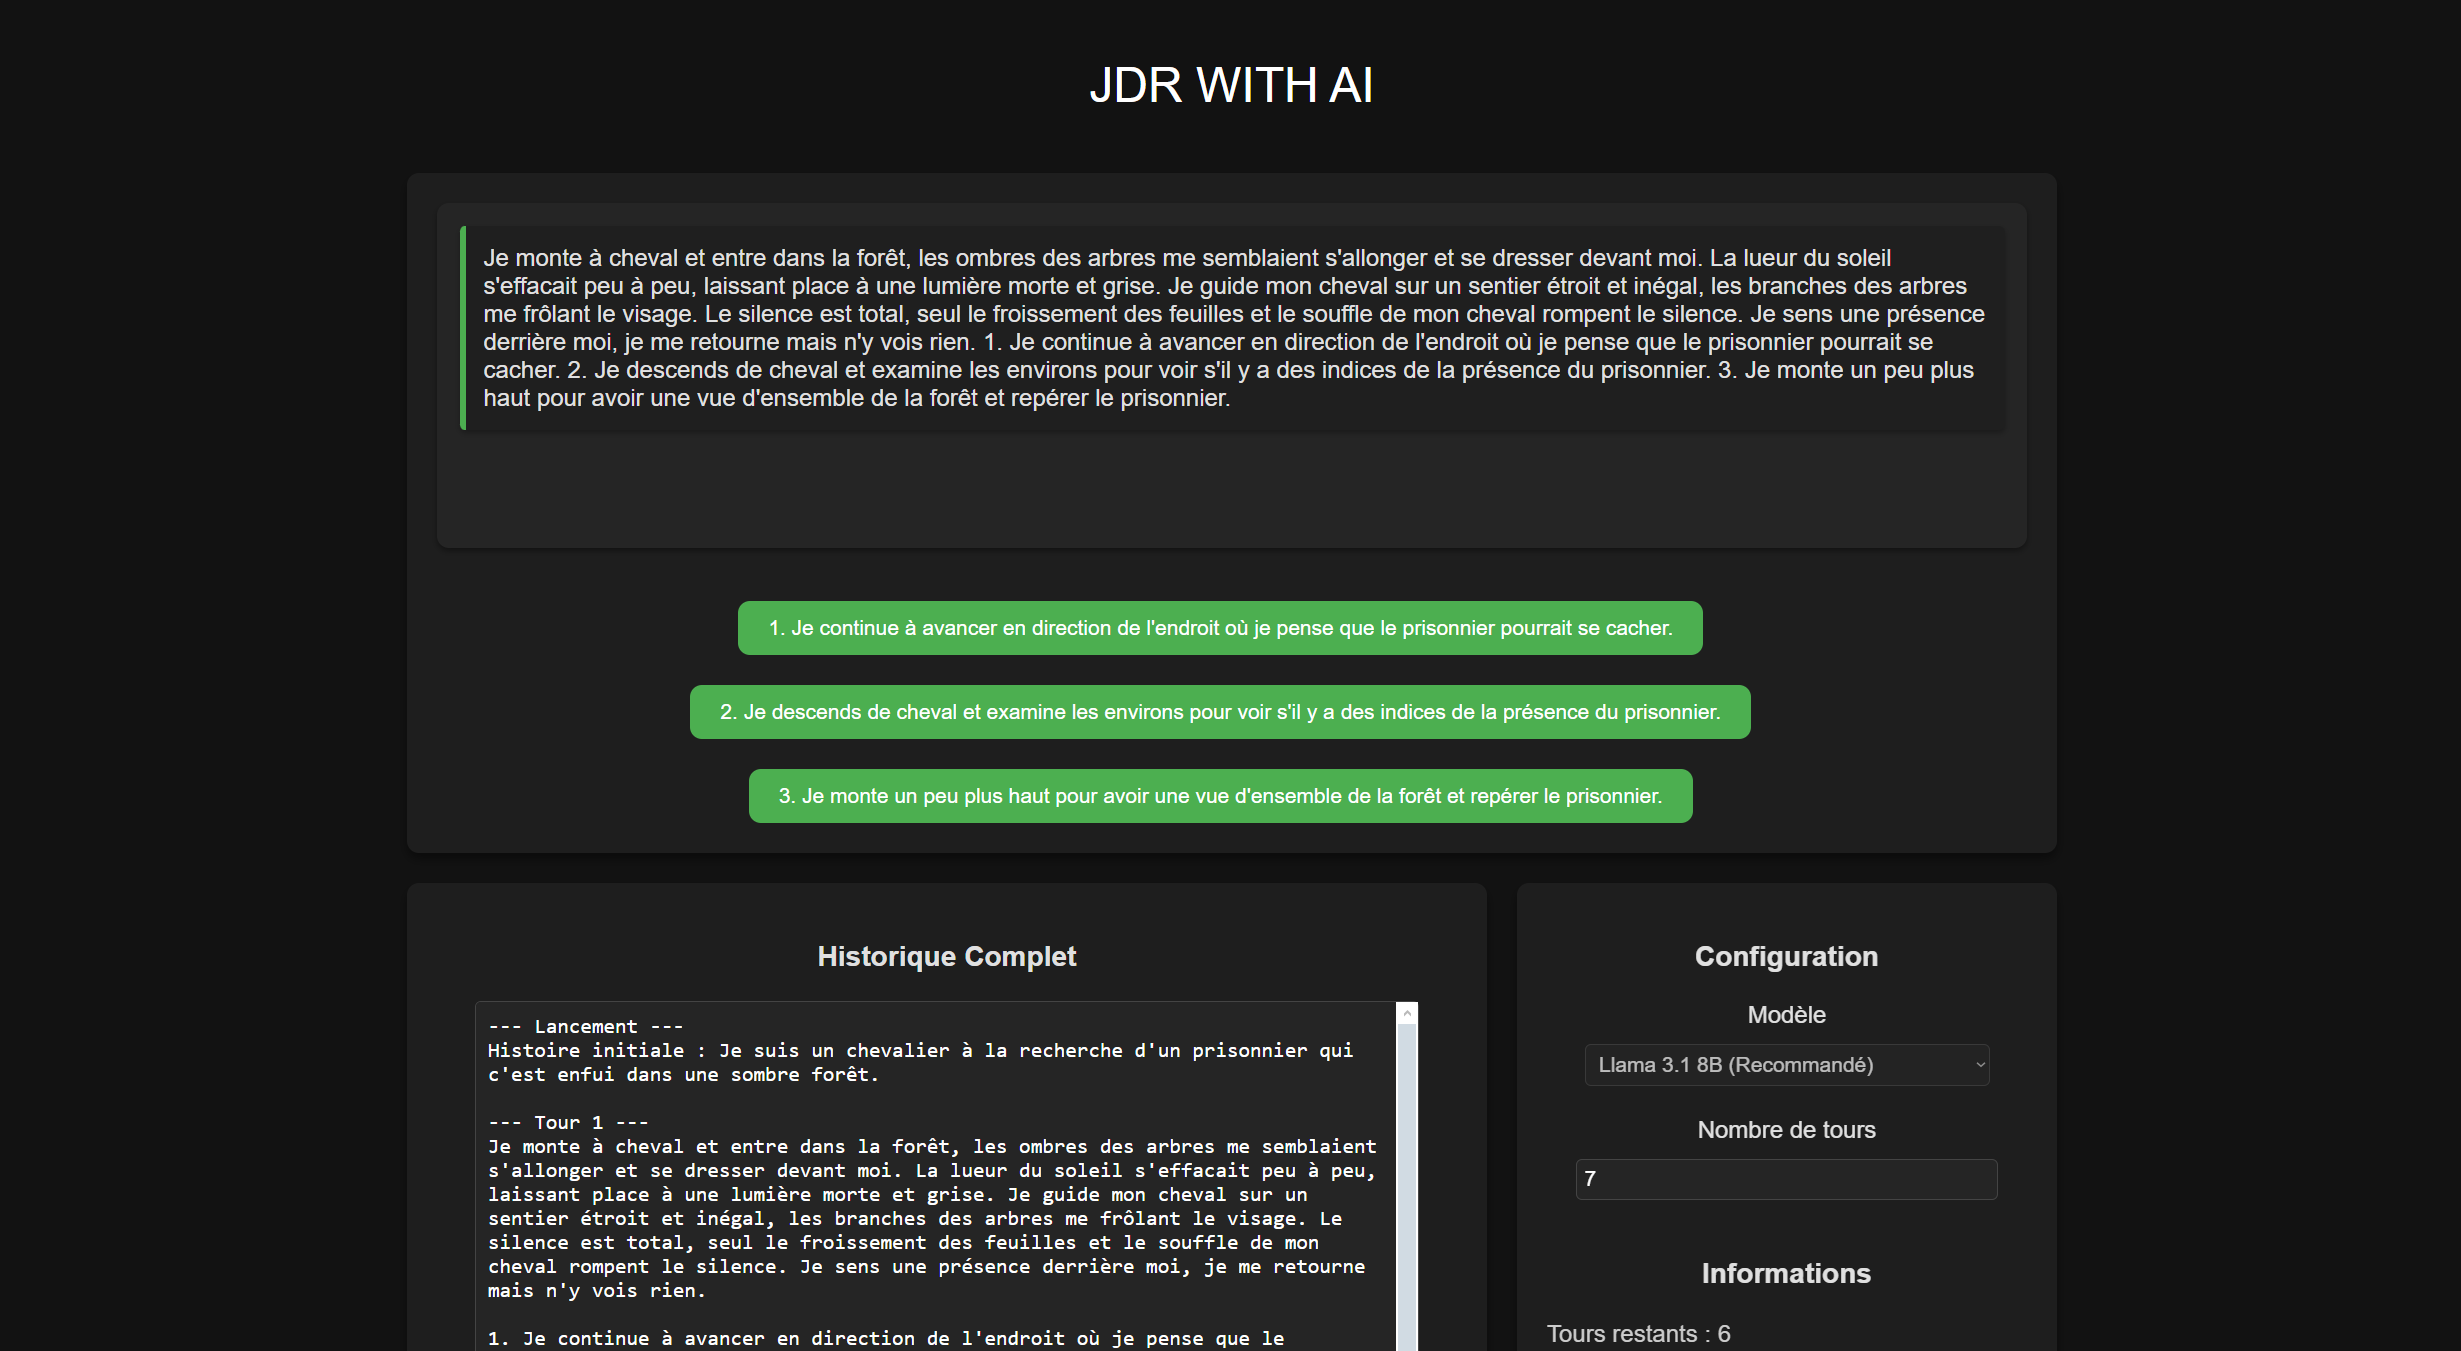
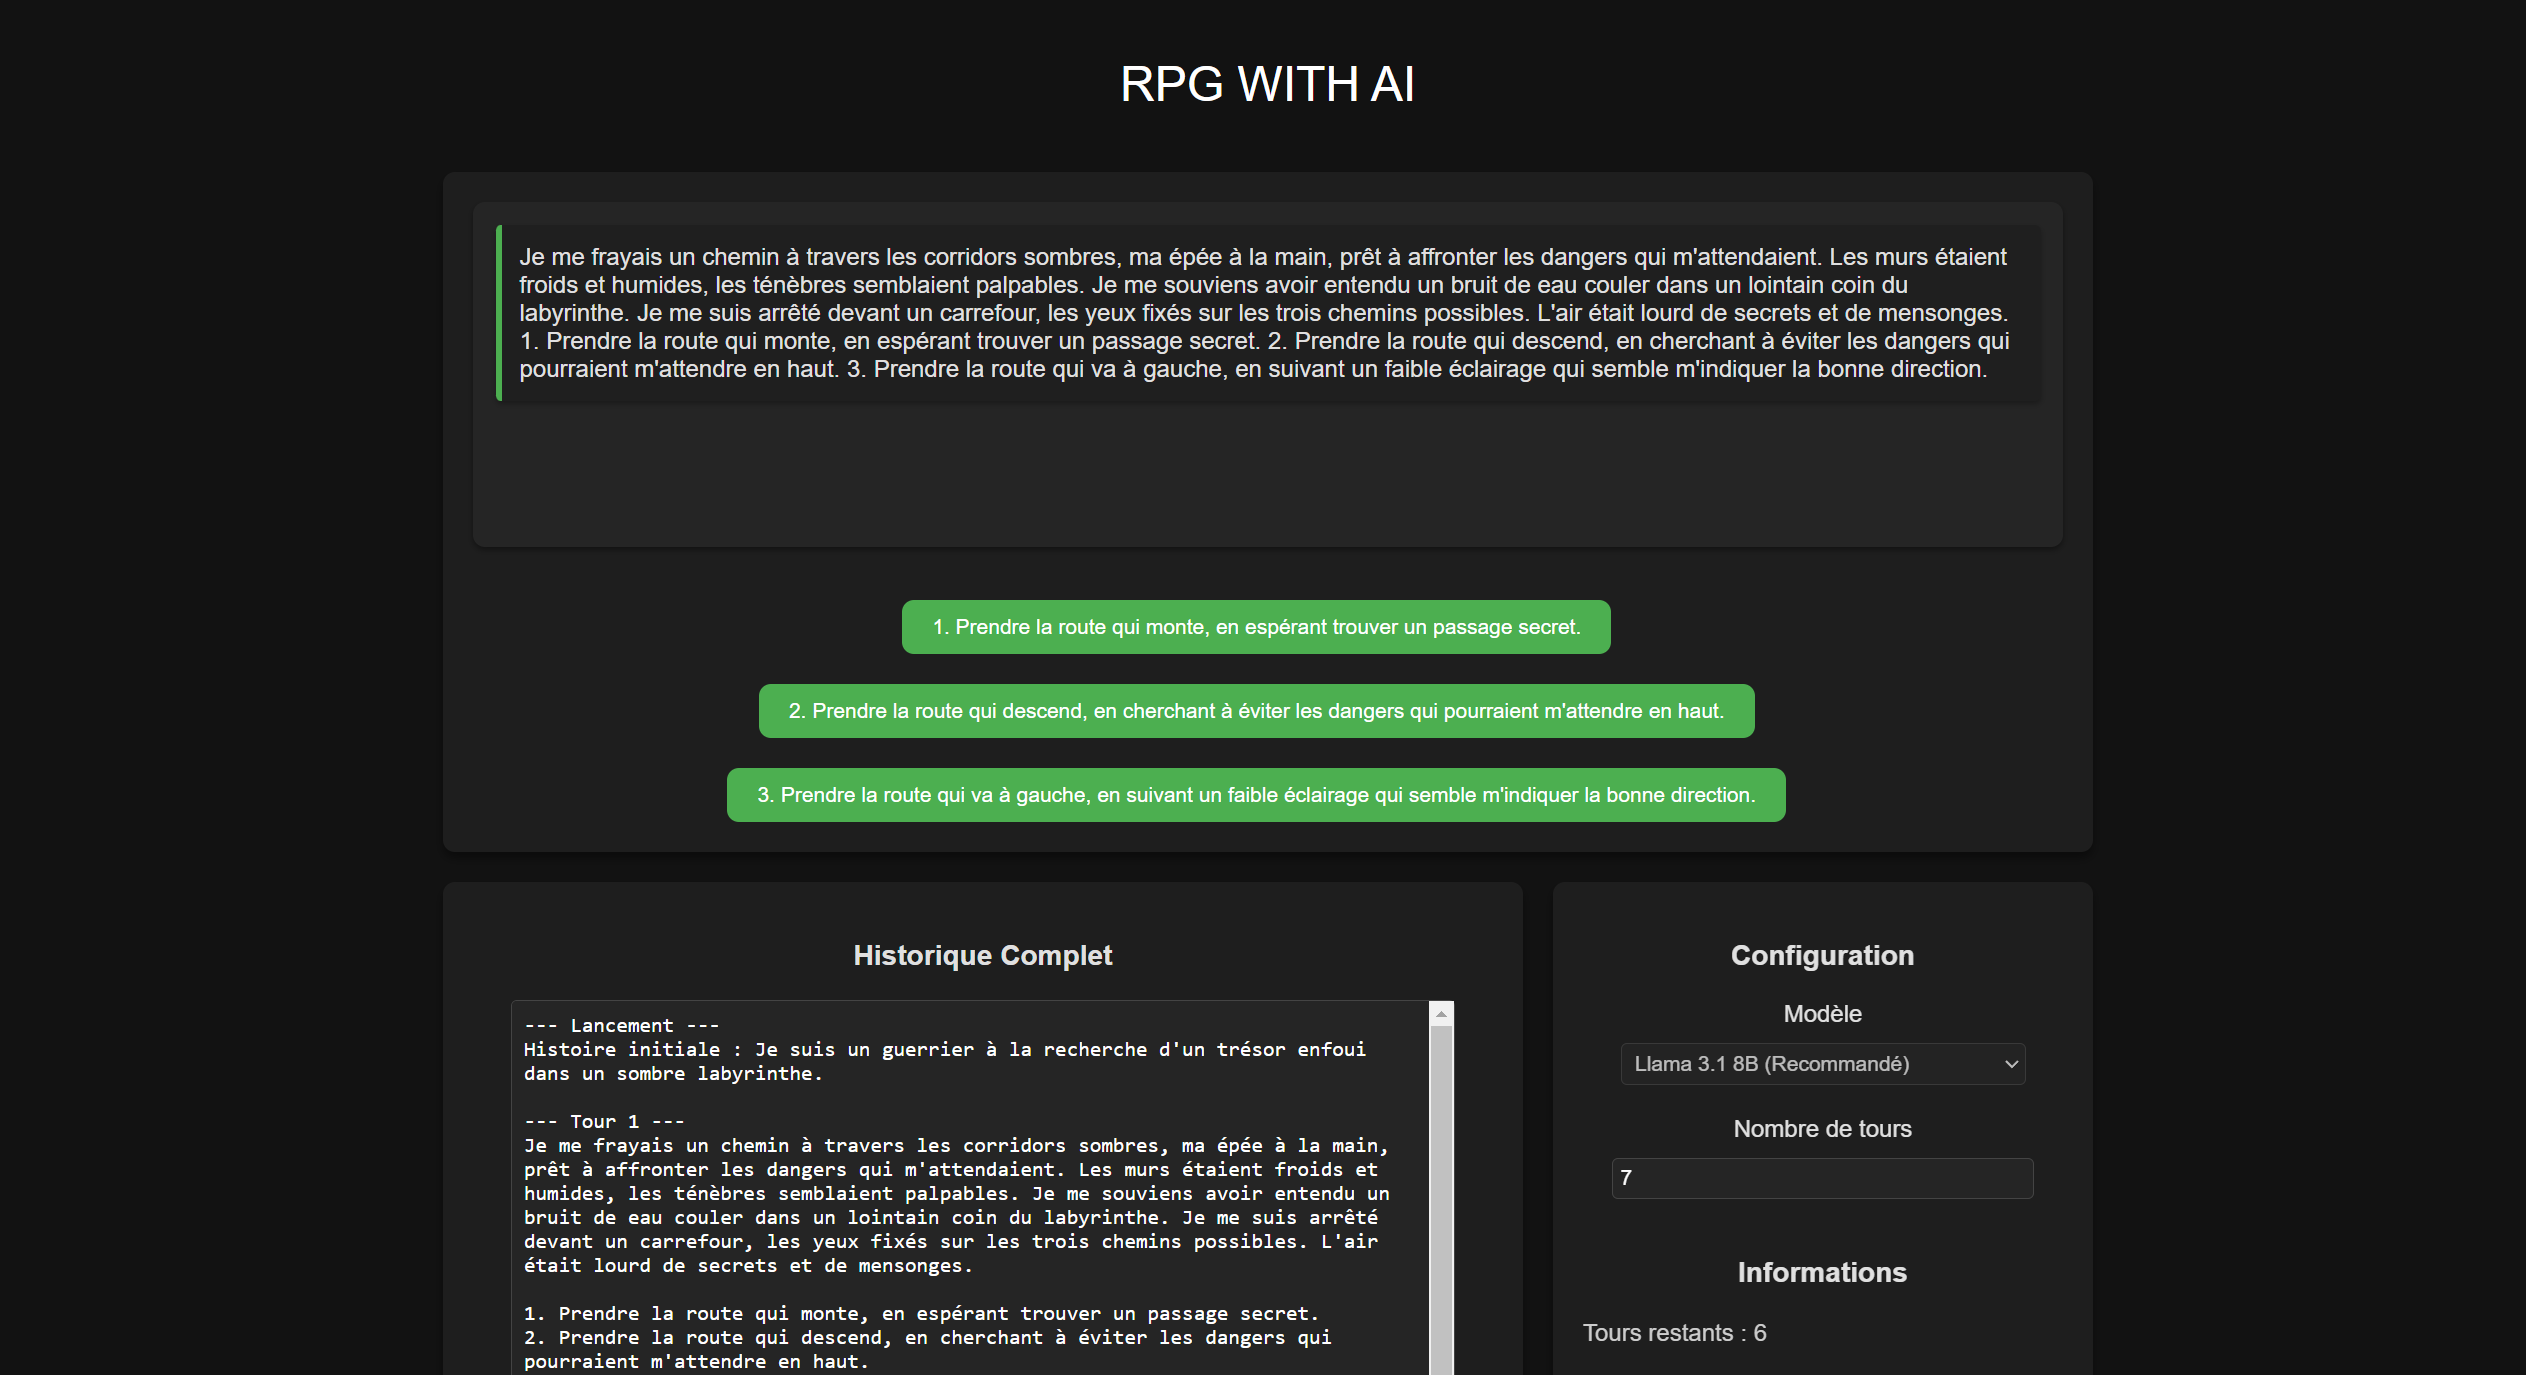
debug + new img

diff --git a/index.html b/index.html
@@ -8,7 +8,7 @@
 </head>
 <body>
 <div class="container">
-  <h1>JDR with AI</h1>
+  <h1>RPG with AI</h1>
 
   <!-- Section : Contexte initial -->
   <section class="initial-section">
